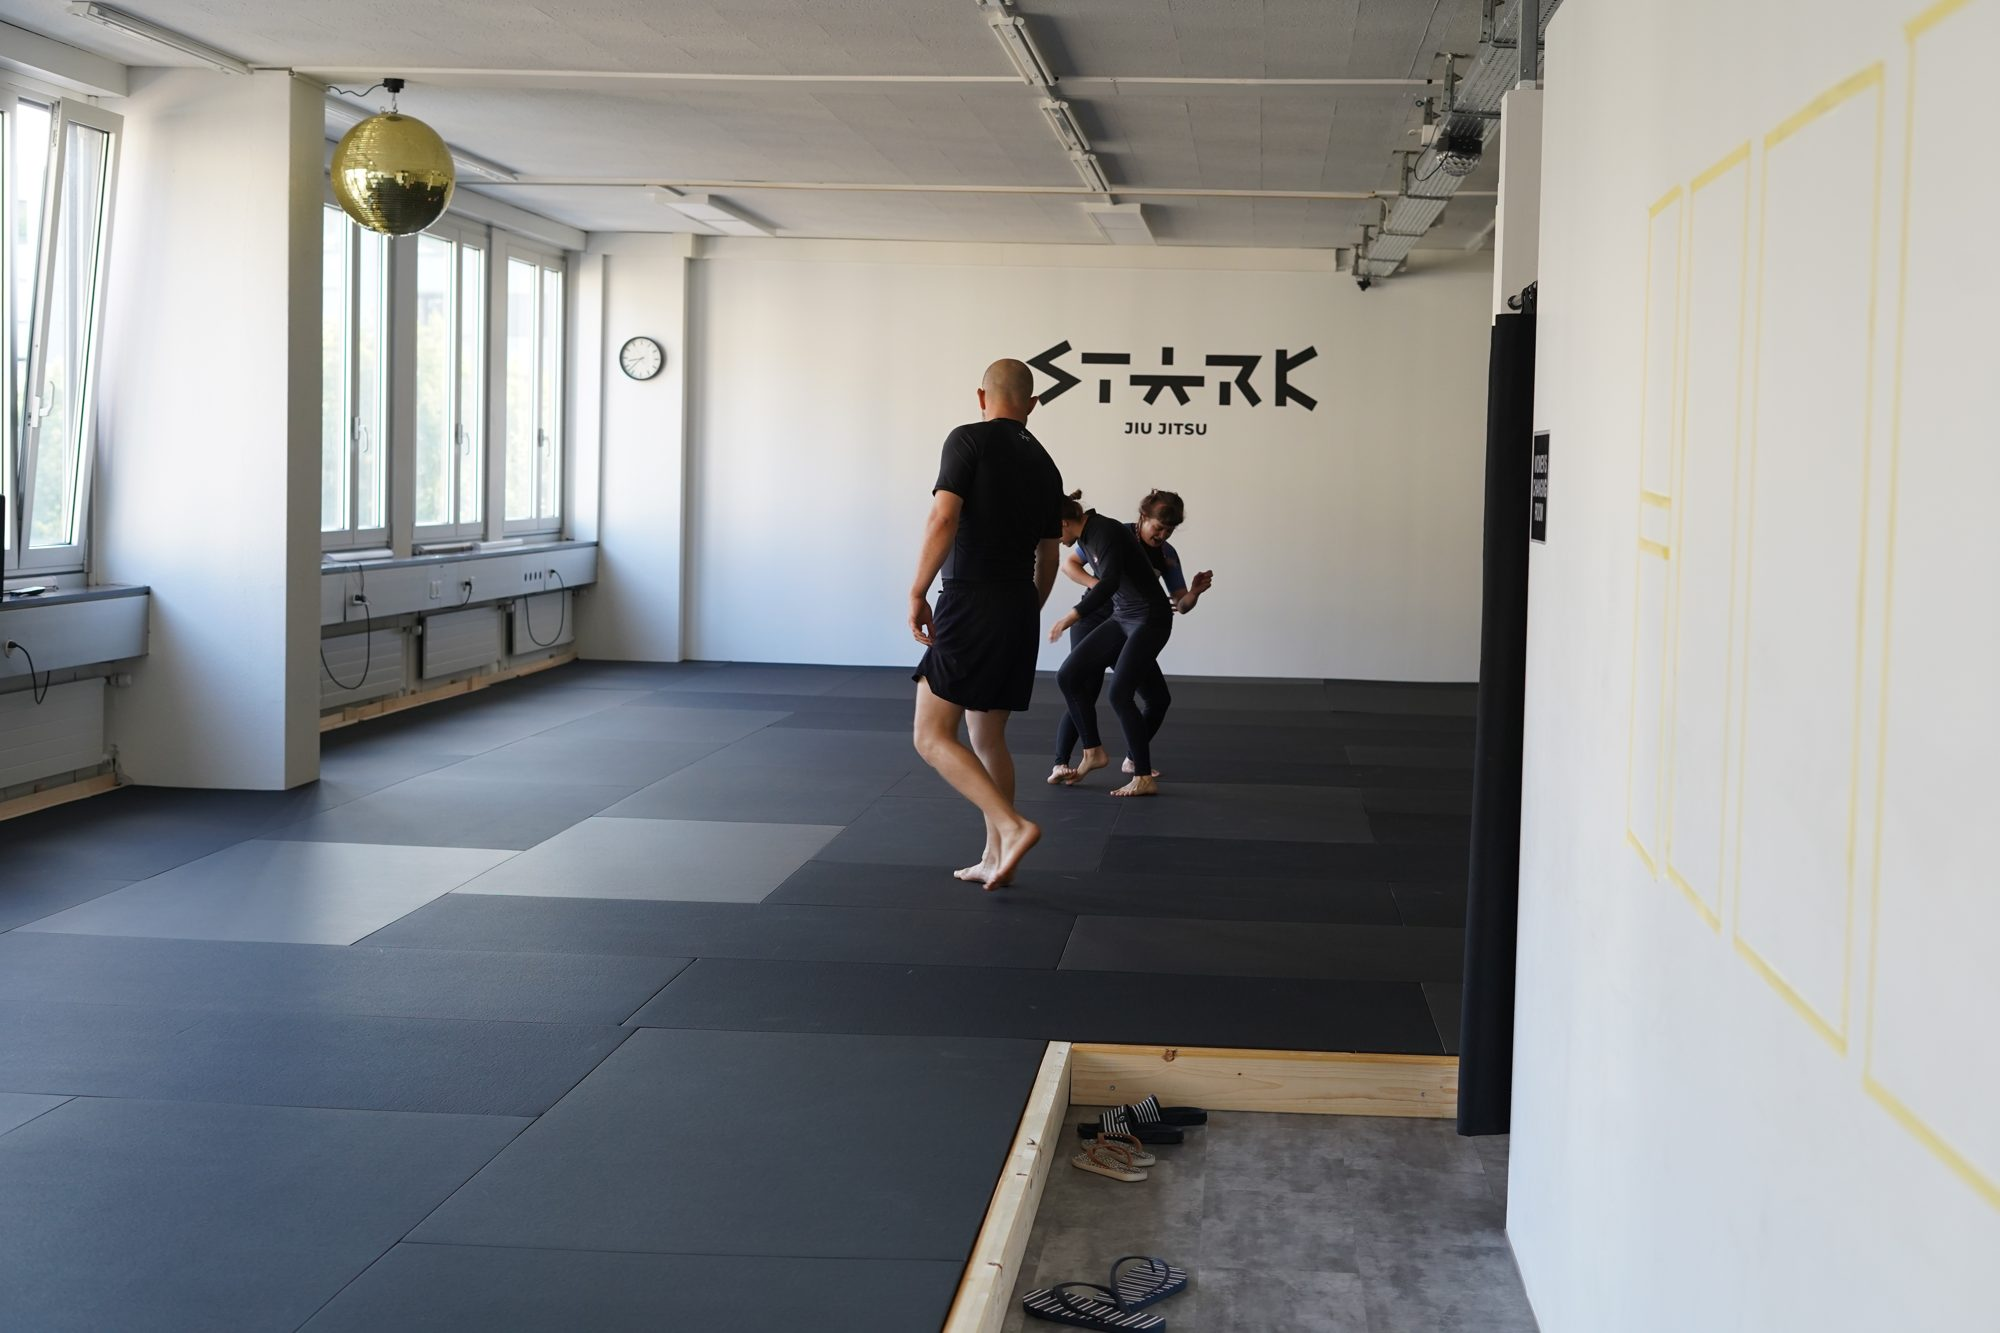
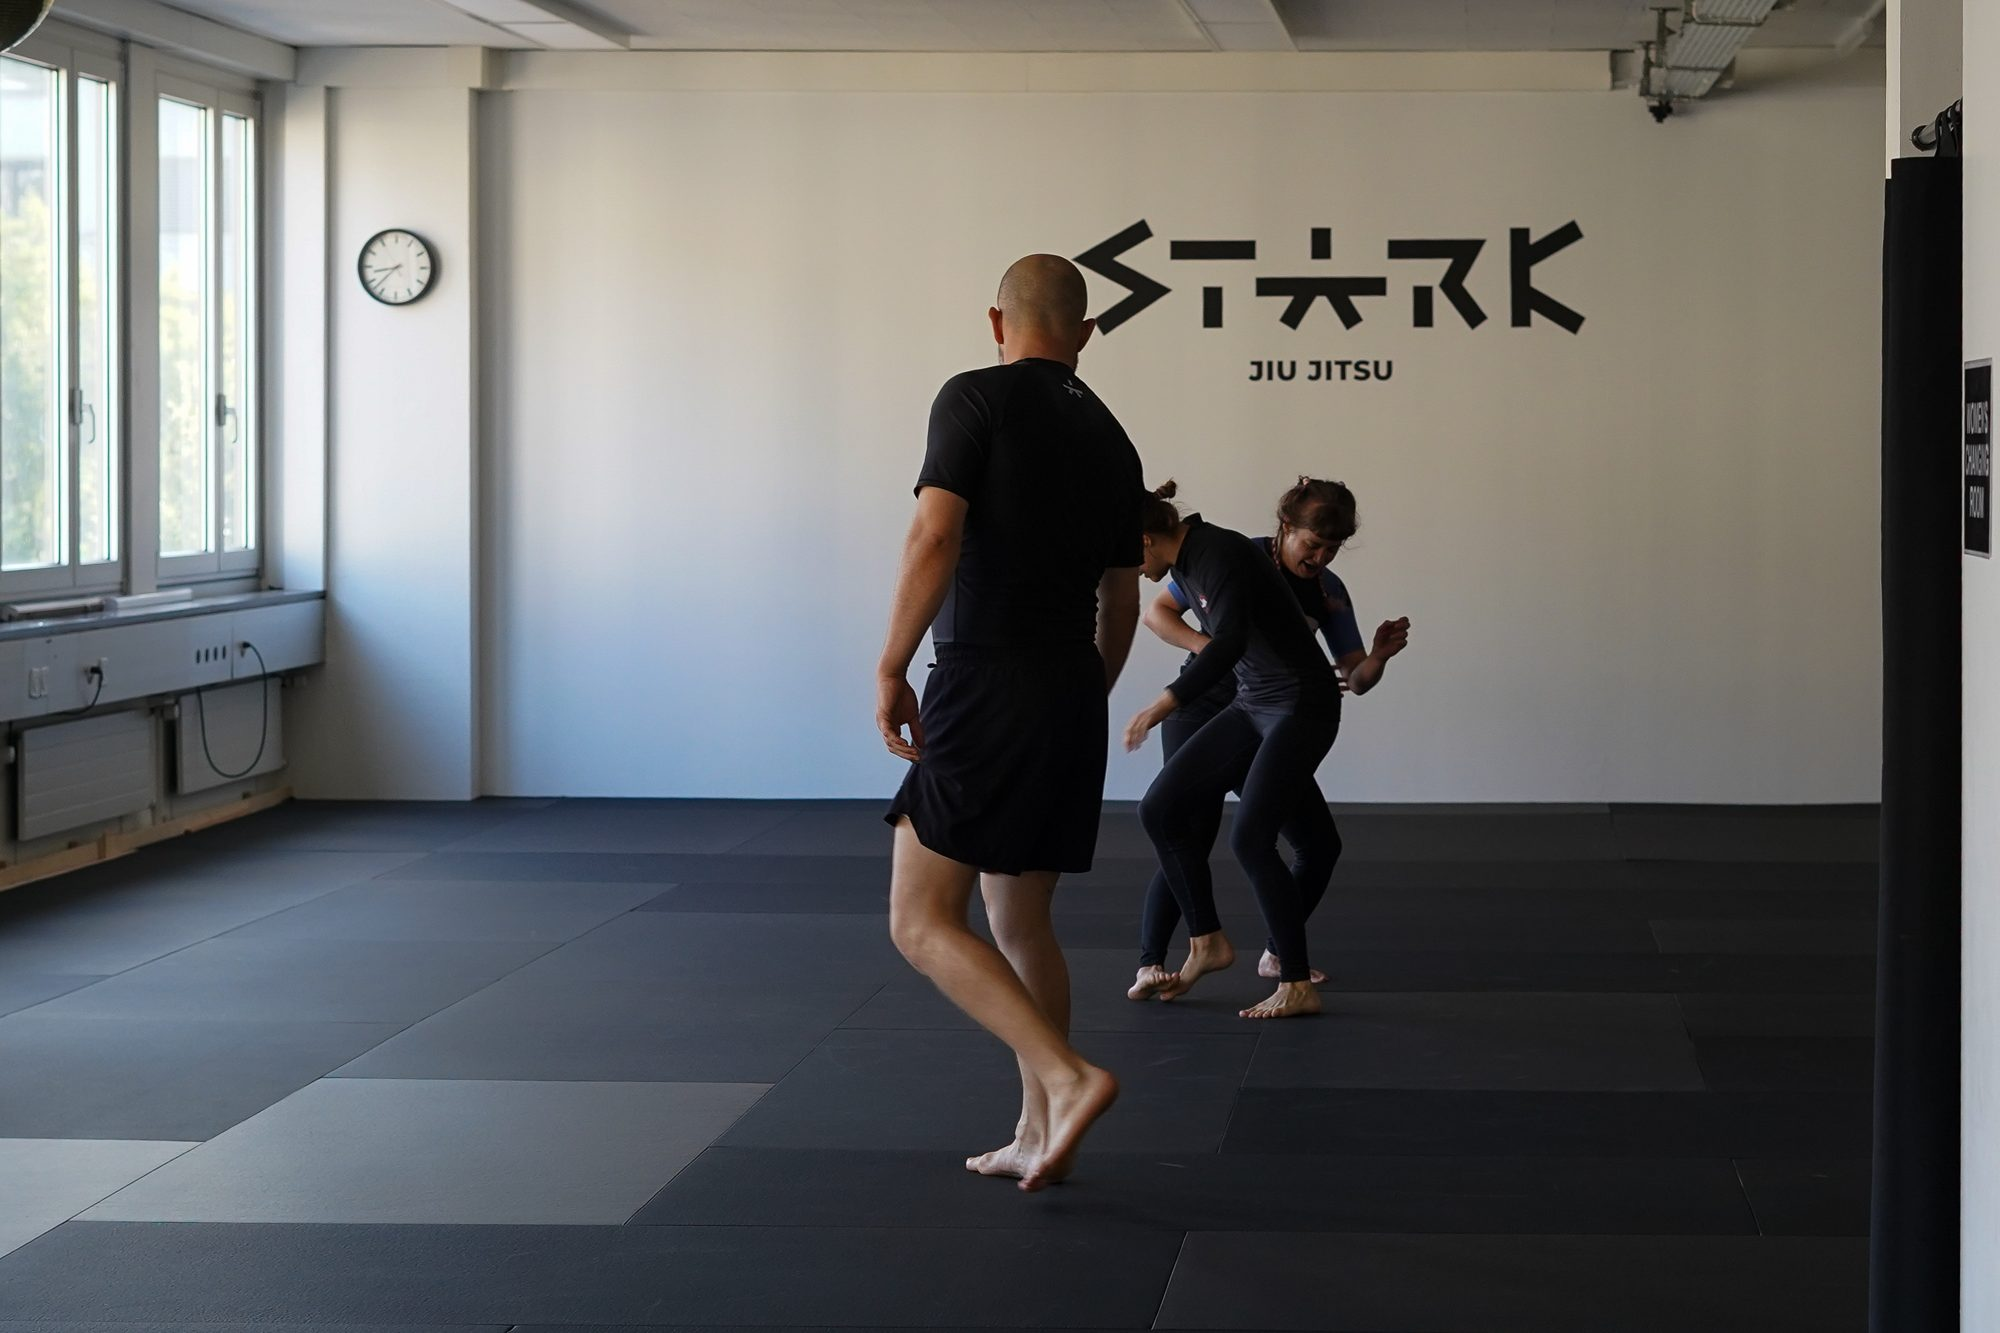
contact: use edited DSC03140 as hero, reframe to center 25%

diff --git a/contact/index.html b/contact/index.html
@@ -31,7 +31,7 @@
   </nav>
 
   <main>
-    <section class="page-hero short" style="background-image:url('/assets/contact/hero.jpg'); background-position: center 45%;">
+    <section class="page-hero short" style="background-image:url('/assets/contact/hero.jpg'); background-position: center 25%;">
       <div class="ph-inner">
         <h1>Contact</h1>
         <p>A question, an idea, or just want to say hi? Send a message and I'll get back to you.</p>